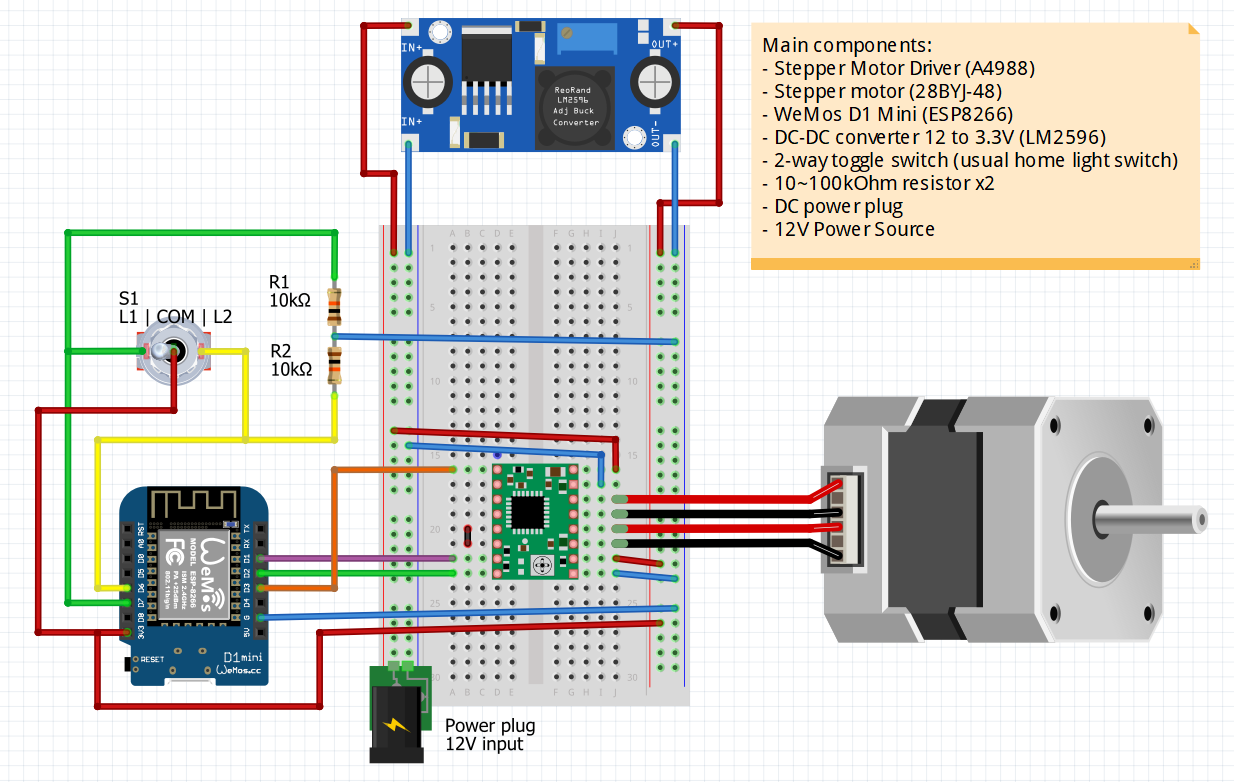
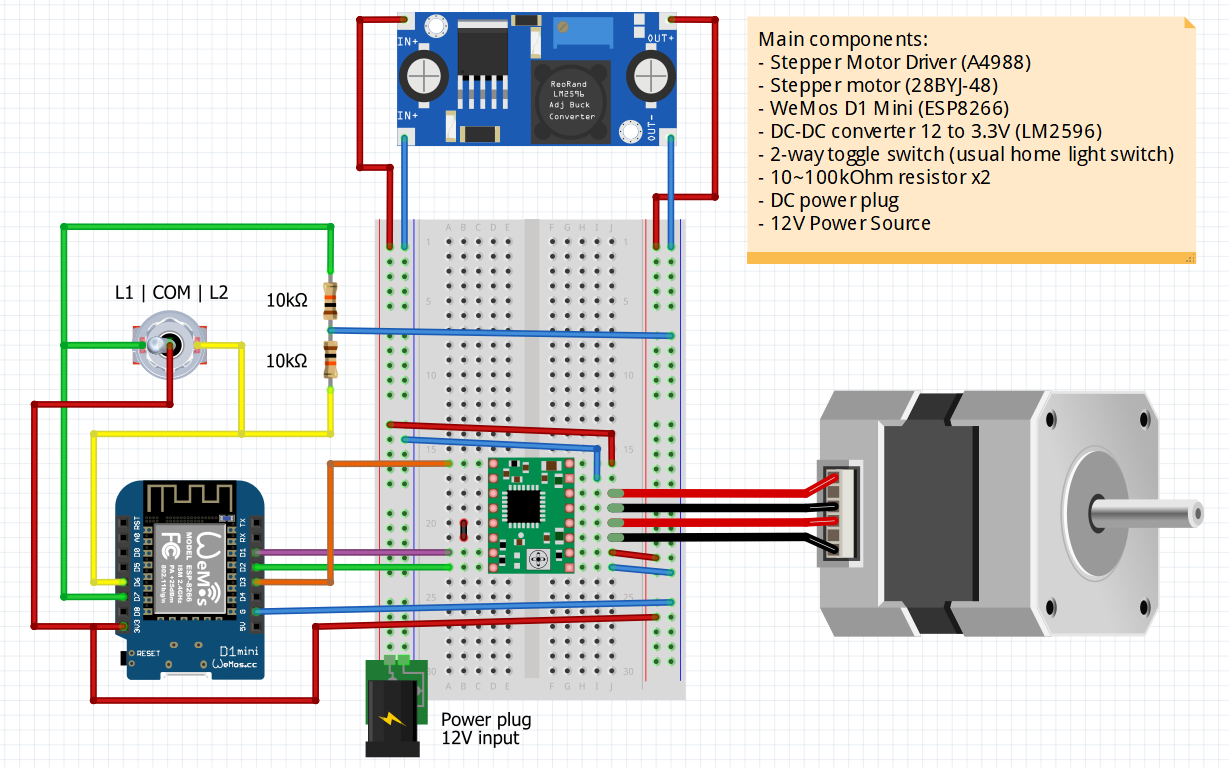
Updated readme and scheme

diff --git a/README.md b/README.md
@@ -1,6 +1,6 @@
 # Smart Blinds Controller
 
-Motorized Smart Roller Blinds Controller with MQTT control and WEB configuration portal for WiFi connection. <br>
+Motorized Smart Roller Blinds Controller with MQTT and WEB configuration portal. <br>
 The project was created on 07.08.2019 in Arduino IDE and rebuild in PlatformIO 01.09.2021
 
 <br>
@@ -30,31 +30,39 @@ The project was created on 07.08.2019 in Arduino IDE and rebuild in PlatformIO 0
 
 - Upload latest release to your ESPx module.
 - When your ESP starts up, it sets it up in Station mode and tries to connect to a previously saved Access Point.
-- If this is unsuccessful (or no previous network saved) it moves the ESP into Access Point mode and spins up a DNS and WebServer.
-- Using any WiFi enabled device with a browser (computer, phone, tablet) connect to the newly created Access Point.
+- If this is unsuccessful (or no previous network saved) it moves the ESP into Access Point mode and spins up a DNS and WebServer. Reading buttons and stepper control are not enabled in that point.
+- Using any WiFi enabled device with a browser (computer, phone, tablet) connect to the newly created Access Point with default name **Smart-Blinds** and no password.
 - Because of the Captive Portal and the DNS server you will either get a 'Join to network' type of popup or get any domain you try to access redirected to the configuration portal. If not, type *192.168.4.1* in your browser.
 - Choose one of the access points scanned and enter password.
-- Set up your MQTT and stepper motor setting.
+- Set up your MQTT, OTA and stepper motor setting.
 - Click save.
-- ESP now will try to connect. If successful, it relinquishes control back to your app. If not, reconnect to AP and reconfigure.
+- ESP now will try to connect. If successful, it relinquishes control back to your app. If not, please reset ESP and reconnect to AP to reconfigure device.
+- Build in LED will flash 5 times when it will be ready.
 - When the ESP has connected to WiFi and MQTT, you can start sending commands by MQTT.
 
 <br>
 
+Remember that you have only **180 seconds** by default to configure your ESP. After timeout AP will be disabled and ESP will be able to read buttons and control stepper.
+If you want to change some settings after successful connection, than you have two ways:
+- Switch off your Access Point and reset ESP - when ESP starts up, it sets it up in Station mode.
+- Erase all settings by pressing reset button 3 times - build in LED will start blinking many times and default AP will be activated.
+
+<br>
+
 ## MQTT:
- - MQTT and all other default settings you can find in `lib/defs/def.h`
+ - MQTT and all other settings can be found in `lib/defs/def.h`
  - State report is provided every `PUBLISH_STEP_LONG` (default **30**) seconds in idle and `PUBLISH_STEP_SHORT` (default **0.5**) seconds when moving.
  - Default command topic to set blinds position (using **0~100%** values) is:
   `"/blinds/set_position"`
  - You can control blinds with *Open*, *Close* and *Stop* commands by using defult topic `"/blinds/set"` and payloads:
- ```yaml
-    #define MQTT_CMD_OPEN               "OPEN"
-    #define MQTT_CMD_CLOSE              "CLOSE"
-    #define MQTT_CMD_STOP               "STOP"
+ ```c++
+    MQTT_CMD_OPEN               "OPEN"
+    MQTT_CMD_CLOSE              "CLOSE"
+    MQTT_CMD_STOP               "STOP"
  ```
  - Default state report topic returns the value of actual blinds position from **0%** to **100%**
- ```yaml
-    #define MQTT_PUBLISH_TOPIC          "/blinds/position"
+ ```c++
+    MQTT_PUBLISH_TOPIC          "/blinds/position"
  ```
 
 
